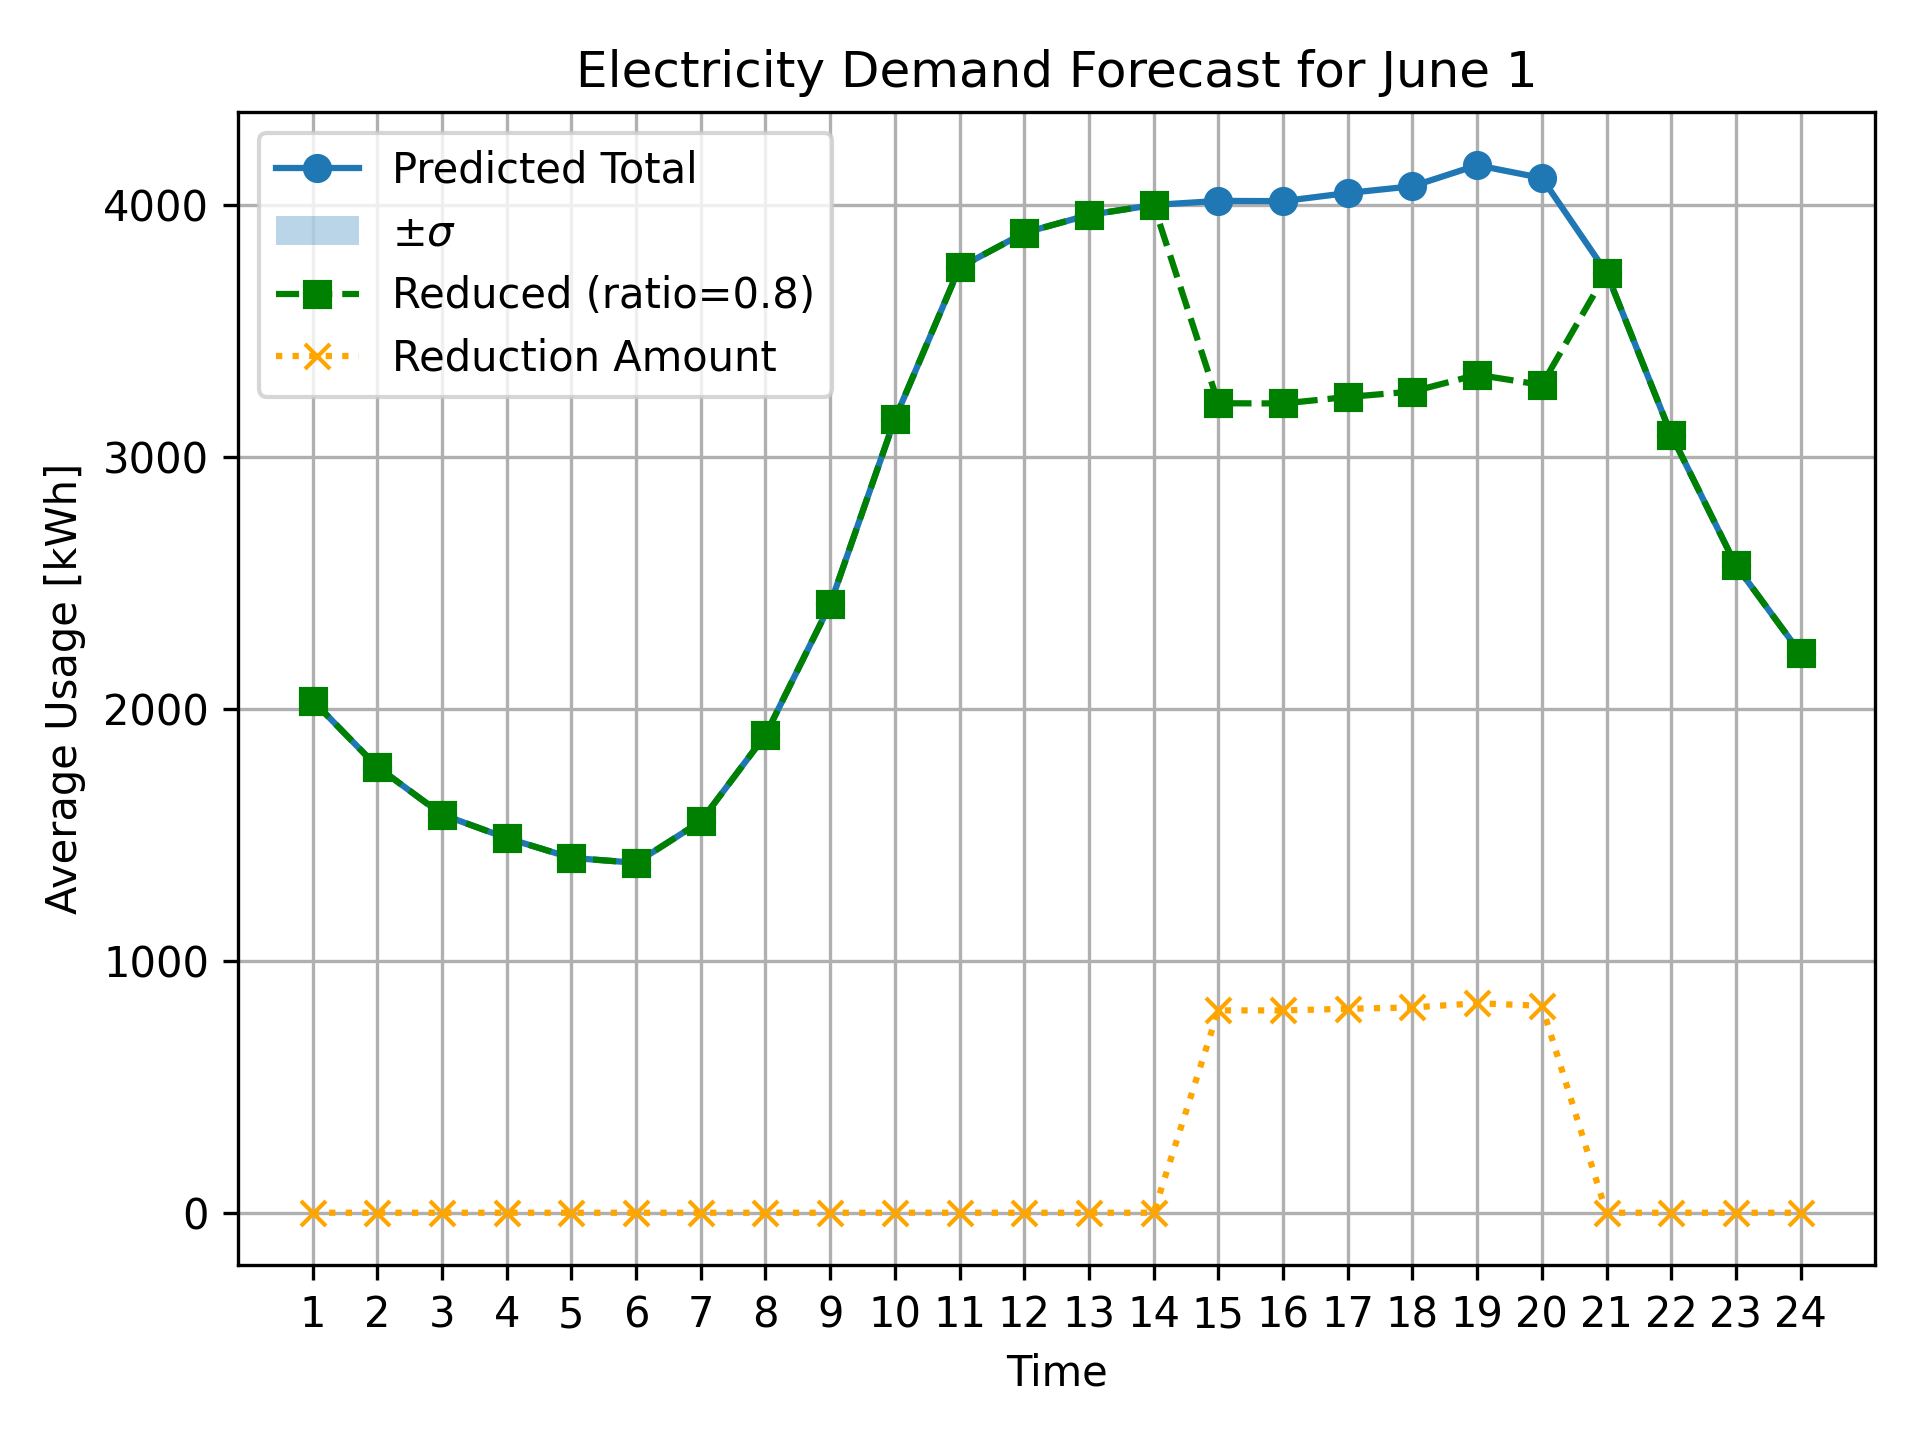
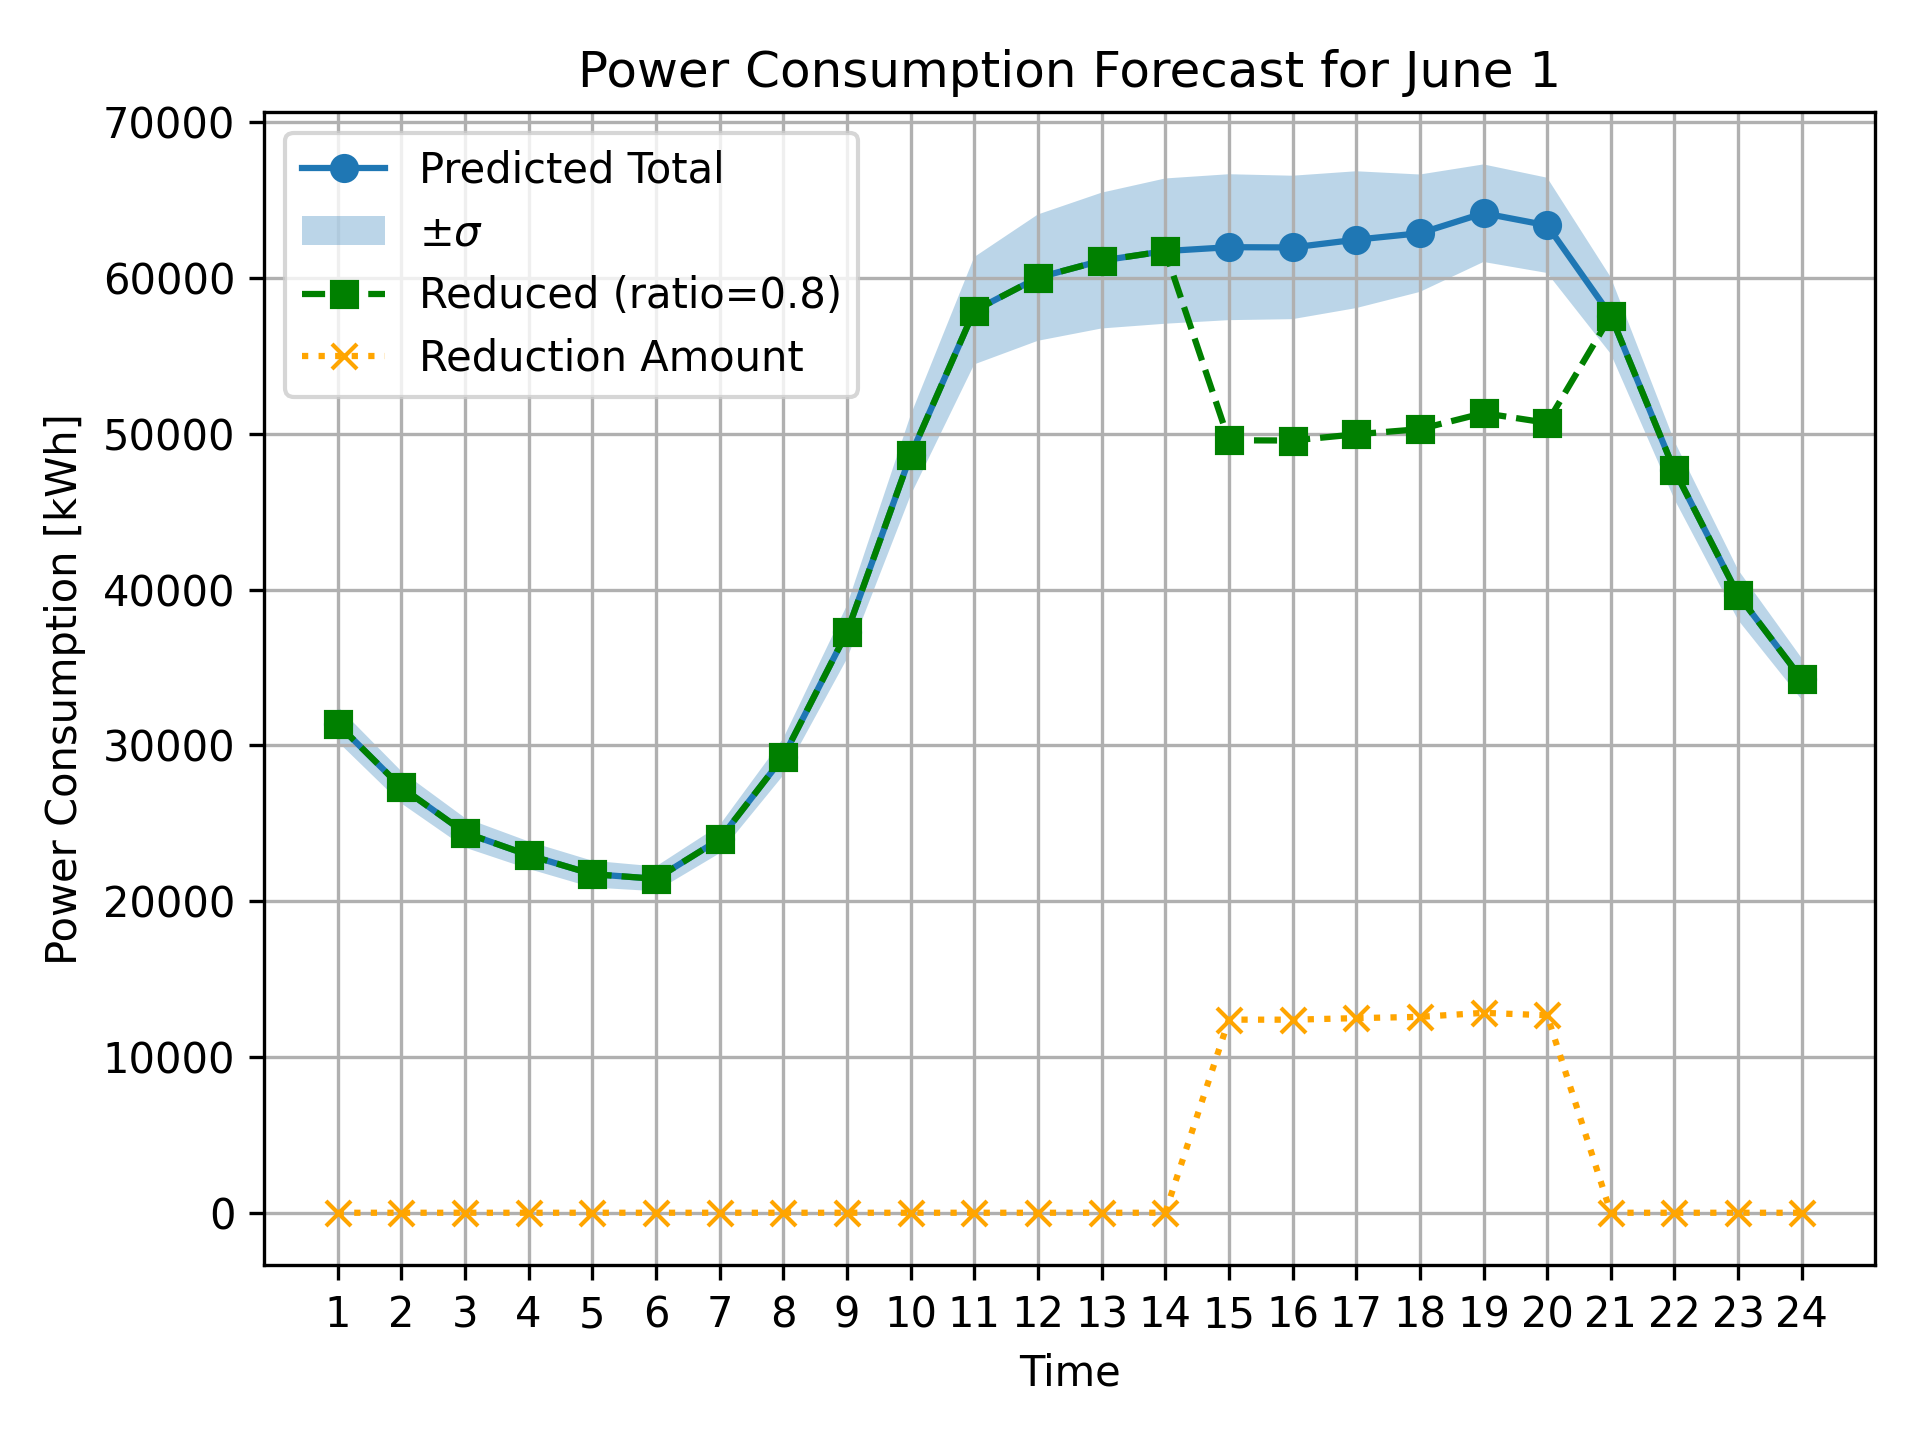
modified:   pyplot_procured_result.py 	new file:   pyplot_total_power_consumption.py

Changed region(s): [[0.0, 0.0312, 0.9688, 0.9688]]

diff --git a/pyplot_total_power_consumption.py b/pyplot_total_power_consumption.py
@@ -1,0 +1,151 @@
+import pandas as pd
+import numpy as np
+import os
+import matplotlib.pyplot as plt
+
+df_list = pd.read_csv('OPEN_DATA/list_60.csv', encoding='cp932')
+df_list.columns = df_list.columns.str.strip()
+df_kanto = df_list[df_list['所在地'] == '関東']
+
+data_dir = 'OPEN_DATA/raw'
+all_data = []
+target_dates = pd.date_range('2013-04-01', '2013-05-31').strftime('%Y/%m/%d')
+predict_date = '2013/06/01'
+
+valid_file_count = 0
+for _, row in df_kanto.iterrows():
+    file_name = row['ファイル名']
+    file_path = os.path.join(data_dir, file_name)
+
+    if not os.path.isfile(file_path):
+        continue
+
+    try:
+        df = pd.read_csv(file_path, encoding='utf-8-sig')
+    except:
+        continue
+
+    if not {'計測日', '計測時間', '全体'}.issubset(df.columns):
+        continue
+
+    df_range = df[df['計測日'].isin(target_dates)]
+
+    if len(df_range) != 61 * 24:
+        continue
+    valid_file_count += 1
+
+    pivot = df_range.pivot(index='計測日', columns='計測時間', values='全体')
+    all_data.append(pivot)
+
+print(f"計算対象となったファイル数: {valid_file_count}")
+print('len(all_data)', len(all_data))
+#print(all_data) # [61 rows x 24 columns]
+
+# 全体データ結合（日付 x 時間）
+if not all_data:
+    print("予測用データが見つかりませんでした。")
+
+df_all = pd.concat(all_data)
+
+# 需要家間の全体消費電力の総和を求める
+df_sum = sum(all_data)
+
+# 各時間帯（列）ごとに、61日分（行）の平均値を計算
+mean_per_hour = df_sum.mean(axis=0)  # axis=0 → 行方向に平均
+#print(mean_per_hour)
+
+# 各時間帯（列）ごとに、61日分（行）の分散を計算
+std_per_hour = df_sum.std(axis=0)  # axis=0 → 行方向に分散（不偏分散）
+#print(std_per_hour)
+
+# ユーザー指定：対象時間帯と削減割合
+default_hours = [15, 16, 17, 18, 19, 20]
+default_ratio = 0.8
+input_hours = input("削減対象の時間帯（カンマ区切り 例: 15,16,17）を入力してください: ")
+input_hours = input_hours or "15,16,17,18,19,20"
+input_ratio = input("削減割合（例: 0.8 = 80%に削減）を入力してください: ")
+input_ratio = float(input_ratio or "0.8")
+
+try:
+    target_hours = sorted(set(int(h.strip()) for h in input_hours.split(",") if h.strip().isdigit()))
+    ratio = float(input_ratio)
+    if not 0 <= ratio <= 1:
+        raise ValueError
+except:
+    print("入力が不正です。対象時間帯は整数、割合は0〜1で指定してください。")
+    target_hours = []
+    ratio = 1.0  # 実質無効
+        
+# 削減後の予測データ作成
+reduced_total = mean_per_hour.copy()
+reduced_diff = pd.Series(0.0, index=mean_per_hour.index)
+
+for h in target_hours:
+    if h in reduced_total.index:
+        original_value = reduced_total[h]
+        reduced_value = original_value * ratio
+        reduced_diff[h] = original_value - reduced_value
+        reduced_total[h] = reduced_value
+
+# プロット
+x = mean_per_hour.index.astype(int).values
+plt.plot(x, mean_per_hour.values, label='Predicted Total', marker='o')
+plt.fill_between(x,
+                 (mean_per_hour - std_per_hour).values,
+                 (mean_per_hour + std_per_hour).values,
+                 alpha=0.3, label=r'$\pm \sigma$')
+
+plt.plot(x, reduced_total.values, label=f'Reduced (ratio={ratio})', linestyle='--', marker='s', color='green')
+plt.plot(x, reduced_diff.values, label='Reduction Amount', linestyle=':', marker='x', color='orange')
+
+# 実測（6月1日）があれば追加プロット
+actual_all = []
+for _, row in df_kanto.iterrows():
+    file_name = row['ファイル名']
+    path = os.path.join(data_dir, file_name)
+    if os.path.isfile(path):
+        try:
+            df = pd.read_csv(path, encoding='utf-8-sig')
+            df_day = df[df['計測日'] == predict_date]
+            if not df_day.empty:
+                df_day = df_day.set_index('計測時間')['全体']
+                actual_all.append(df_day)
+        except:
+            continue
+
+#if actual_all:
+#    actual_df = pd.concat(actual_all, axis=1)
+#    actual_mean = actual_df.mean(axis=1).sort_index()
+#    plt.plot(actual_mean.index.values, actual_mean.values, label='Measured (6/1)',
+#             linestyle='-', marker='D', color='red')
+
+plt.title('Power Consumption Forecast for June 1')
+plt.xlabel('Time')
+plt.ylabel('Power Consumption [kWh]')
+plt.xticks(x)
+plt.grid(True)
+plt.legend()
+plt.tight_layout()
+
+# 削減情報をファイル名に反映して保存
+# 時間帯ラベル作成（例：hour12_14）
+if len(target_hours) > 1 and all(np.diff(target_hours) == 1):
+    hour_label = f"hour{target_hours[0]}_{target_hours[-1]}"
+else:
+    hour_label = "hour" + "_".join(str(h) for h in target_hours)
+ratio_str = f"{ratio:.2f}".replace('.', '_')
+filename = f"output/reduced_{hour_label}_ratio{ratio_str}.png"
+plt.savefig(filename, dpi=300)
+print(f"{filename} に保存しました。")
+
+# 削減電力量をCSV出力
+output_df = pd.DataFrame({
+    'Hour': reduced_diff.index.astype(int),
+    'Procured': reduced_diff.values
+})
+csv_filename = f"output/procured_negawatt_{hour_label}_ratio{ratio_str}.csv"
+output_df.to_csv(csv_filename, index=False)
+print(f"{csv_filename} に保存しました。")
+    
+# 表示（必要に応じて）
+plt.show()

diff --git a/pyplot_procured_result.py b/pyplot_procured_result.py
@@ -13,6 +13,9 @@ procured_values = []
 total_means = []
 total_stds = []
 
+# 定数：標本数（61日）
+n = 61
+
 # 各時間帯ごとに集計
 for _, row in df_result.iterrows():
     hour = int(row['Hour'])
@@ -27,10 +30,16 @@ for _, row in df_result.iterrows():
 
     # 対象時間帯のデータから選択された需要家のみ抽出
     df_hour = df_pred[df_pred['Hour'] == hour]
-    df_selected = df_hour[df_hour['Consumer'].isin(selected_consumers)]    # 合計平均と標準偏差（分散の加算）
-    total_mean = df_selected['Mean'].sum()
-    total_std = np.sqrt(np.sum(df_selected['Std'] ** 2))  # 独立性仮定
+    df_selected = df_hour[df_hour['Consumer'].isin(selected_consumers)]
 
+    # 合計平均
+    total_mean = df_selected['Mean'].sum()
+
+    # 分散を加算（標準偏差が母標準偏差なら、単純に2乗でOK）
+    variances = df_selected['Std'] ** 2  # 各需要家の分散（母分散とみなす）
+    total_variance = variances.sum()     # 独立変数の分散の和
+    total_std = np.sqrt(total_variance)  # 合成標準偏差
+    
     # リストに追加
     hours.append(hour)
     procured_values.append(procured)
@@ -38,6 +47,14 @@ for _, row in df_result.iterrows():
     total_stds.append(total_std)
 
 # プロット
+import matplotlib.cm as cm
+import matplotlib.colors as mcolors
+# カラーマップから色を適当に割り当て（例: tab10を繰り返す）
+#cmap = cm.get_cmap('tab10')
+cmap = plt.colormaps.get_cmap('tab10')
+color_cycle = [cmap(i % 10) for i in range(100)]  # 最大100色（繰り返し）
+color_idx = 0  # 色のインデックス管理用
+
 full_hours = list(range(1, 25))
 procured_dict = dict(zip(hours, procured_values))
 procured_filled = [procured_dict.get(h, 0) for h in full_hours]
@@ -45,13 +62,27 @@ procured_filled = [procured_dict.get(h, 0) for h in full_hours]
 plt.plot(full_hours, procured_filled, 'r-', label='Target Procured')
 plt.errorbar(hours, total_means, yerr=total_stds, fmt='o', linestyle='--', label='Selected Total Mean ± Std', capsize=5)
 
+# 各需要家の平均値ラインを追加
+for _, row in df_result.iterrows():
+    hour = int(row['Hour'])
+    if pd.isna(row['Selected_Consumers']):
+        continue
+    selected_consumers = row['Selected_Consumers'].split(';')
+    for consumer in selected_consumers:
+        df_indiv = df_pred[(df_pred['Hour'] == hour) & (df_pred['Consumer'] == consumer)]
+        if not df_indiv.empty:
+            mean_val = df_indiv['Mean'].values[0]
+            plt.plot(hour, mean_val, marker='x', color=color_cycle[color_idx % len(color_cycle)], alpha=0.6)
+            color_idx += 1
+
+# 軸とラベル
 plt.xlabel('Hour')
 plt.ylabel('Power (kW)')
 plt.title('Selected Consumer Combination vs Target')
 plt.xticks(full_hours)
 plt.grid(True)
 plt.legend()
-plt.ylim(0, 1000)
+#plt.ylim(0, 1000)
 plt.xlim(0, 24)
 
 # 保存
